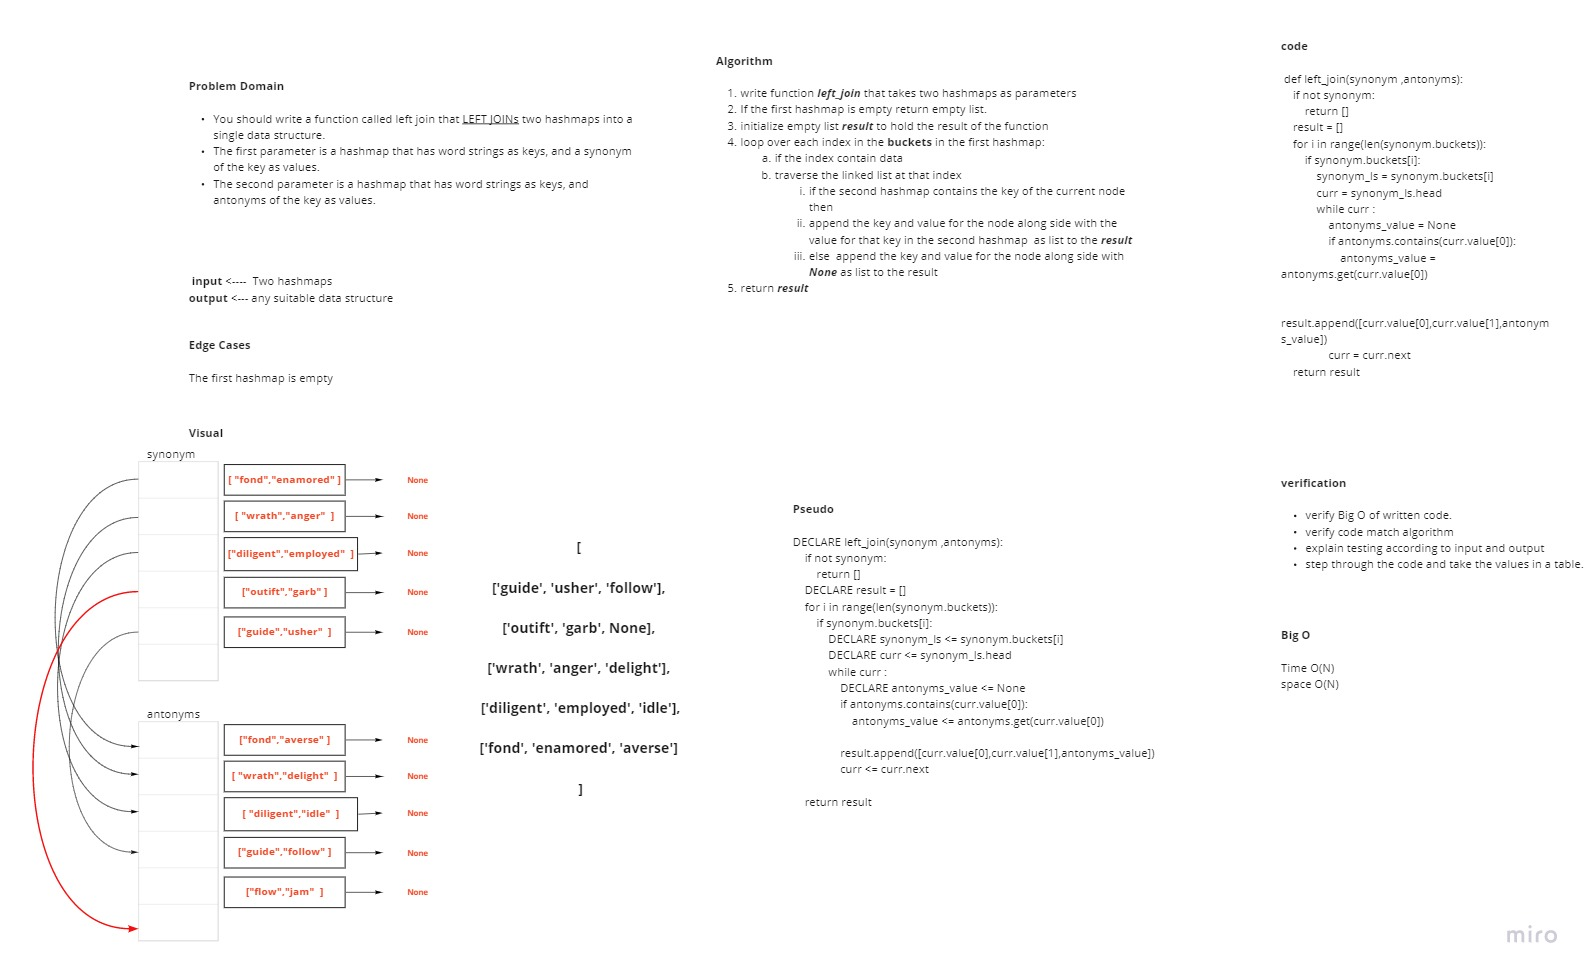
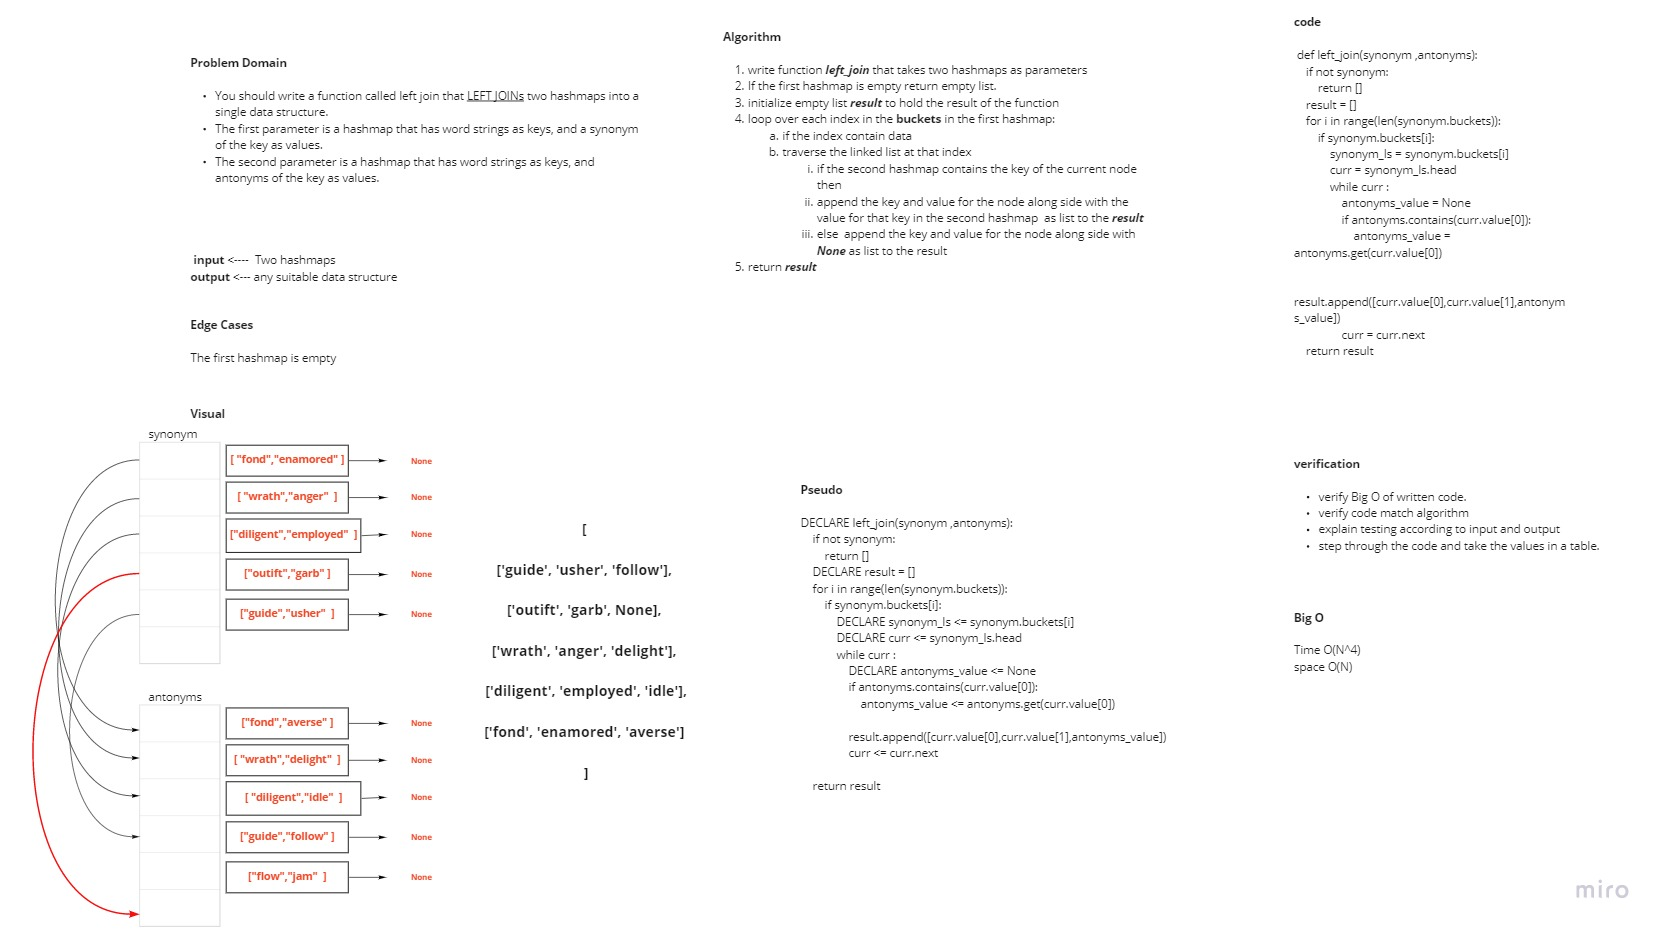
fix time complexity

diff --git a/hash-table/hash_table/hashmap_left_join/README.md b/hash-table/hash_table/hashmap_left_join/README.md
@@ -20,7 +20,7 @@ The second parameter is a hashmap that has word strings as keys, and antonyms of
         - else  append the key and value for the node along side with None as list to the result
 5. return result
 
-***Time Complexity*** is O(N) because we iterate over each index in the first hashmap
+***Time Complexity*** is O(N^4) because we iterate over each index in the first hashmap and in the worst case it might all the keys may exist in the same index and also to check if the key exist in the second hashmap we need also N in worst case and also to get the value from second hashmap we need N 
 
 ***Space Complexity*** is O(N) because we used auxiliary data structure to store the result.
 
